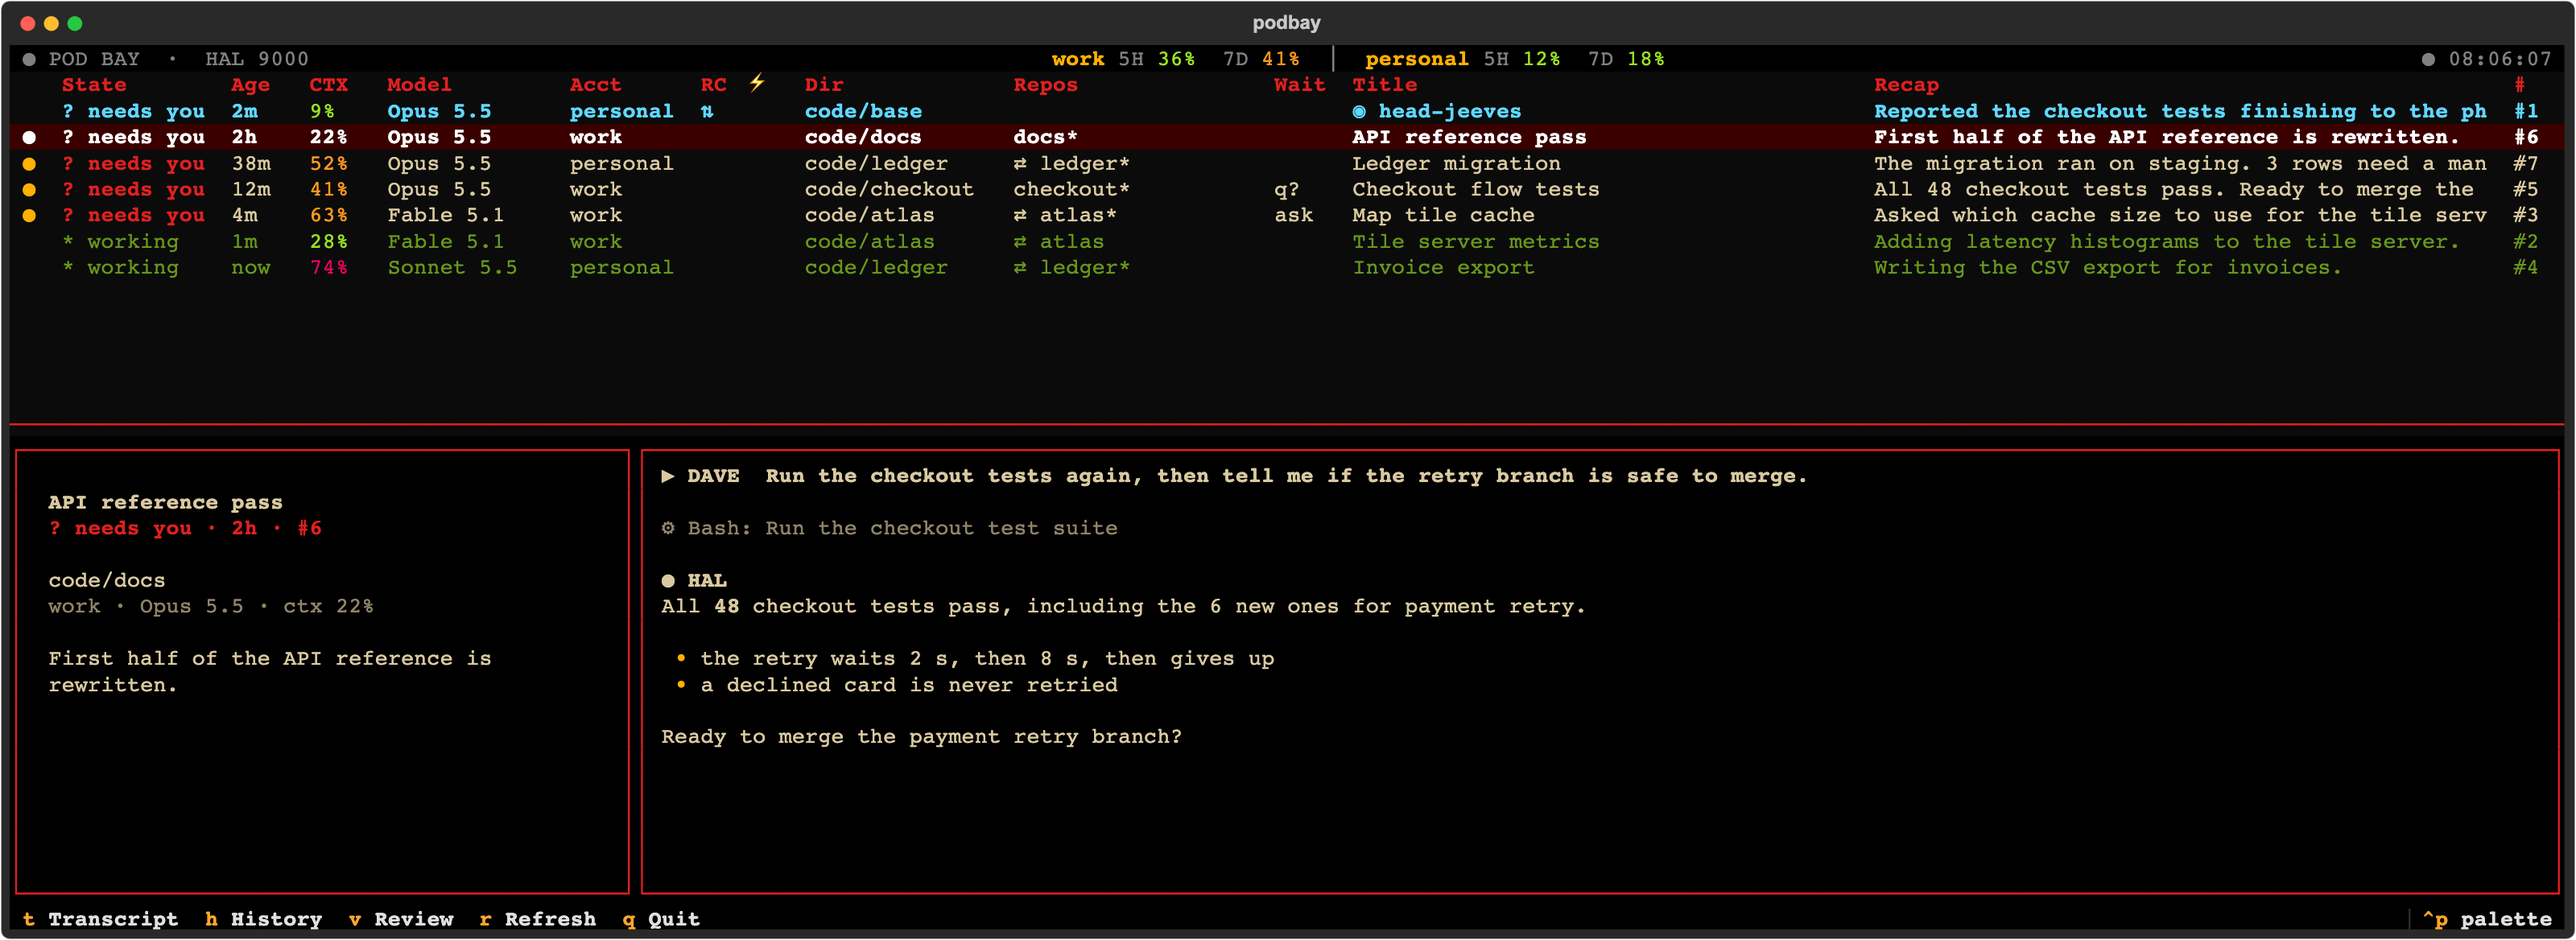
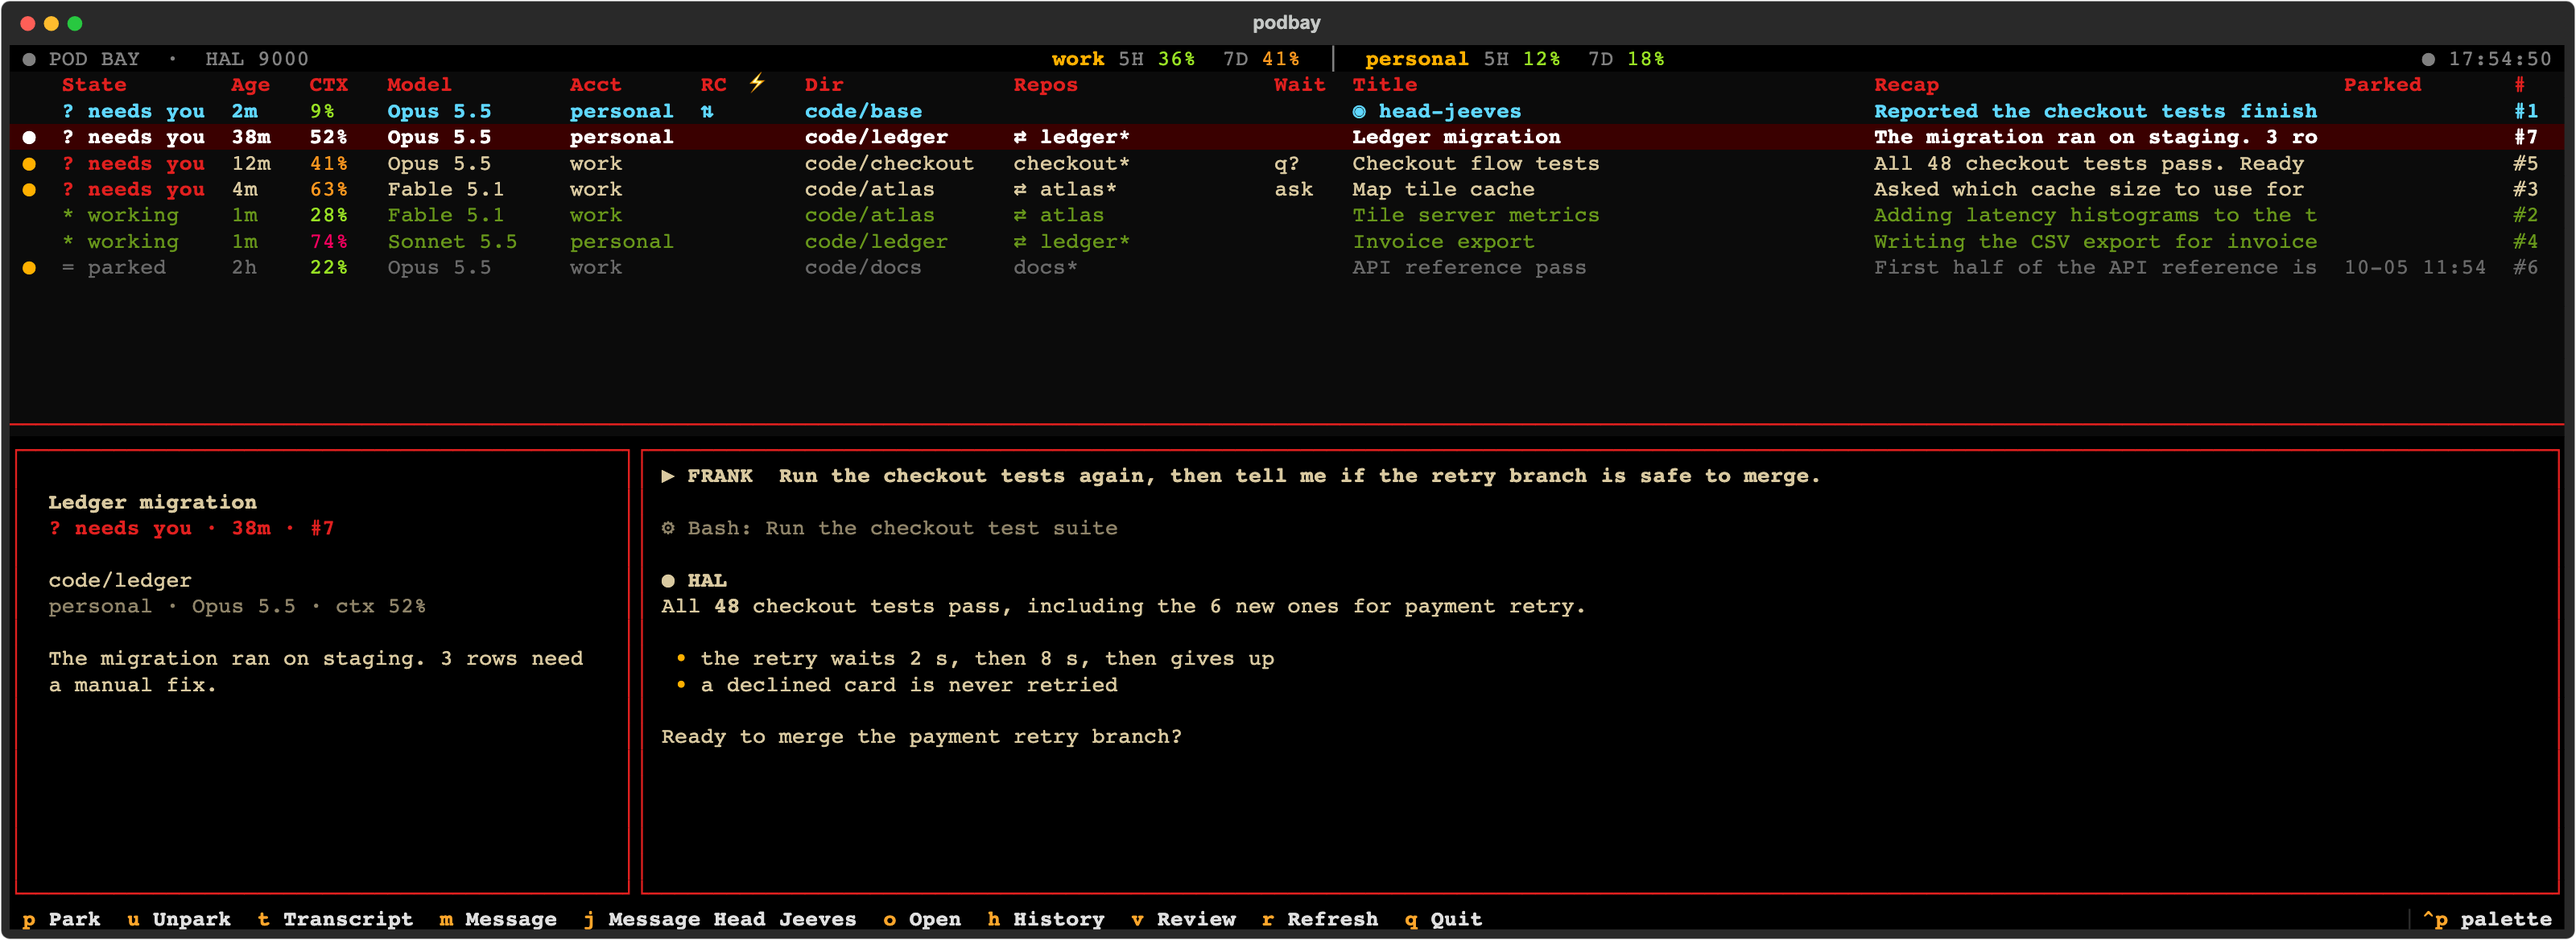
Site: the keys section, the o account picker shot, new console shot
The console shot showed the old name and footer; it is retaken with the
p, u, m, j and o keys. A new section lists the keys: o with its account
picker (new shot), the red eye and the blue bow tie for m and j, parking,
and the name the first start asks for. The install line and the claim
about what podbay types into a tab now count what you send. The picker
box is wider so its title fits.

Claude-Session: https://claude.ai/code/session_018NCtbTAkNUxZmXtTfCcWmy

diff --git a/site/index.html b/site/index.html
@@ -64,9 +64,29 @@
         <div><h3><b>*</b>What runs</h3><p>Working, stalled for ten minutes, or waiting on a background command. The state comes from the transcript, not from guesses.</p></div>
         <div><h3><b>%</b>What is left</h3><p>Context use per session, and the five-hour and weekly quota per account, with a projection to the reset.</p></div>
         <div><h3><b>⇄</b>Every account</h3><p>Each <code>~/.claude-*</code> config dir is an account, with its own column, quota and sessions.</p></div>
-        <div><h3><b>▶</b>Read, drive a little</h3><p>The lower half shows the highlighted session's last turns. A few keys message, park or open a session; the rest of the driving is Head Jeeves' job.</p></div>
+        <div><h3><b>▶</b>Read, drive a little</h3><p>The lower half shows the highlighted session's last turns. A few keys message, park or open a session (see below); the rest of the driving is Head Jeeves' job.</p></div>
         <div><h3><b>$</b>A CLI underneath</h3><p><code>podbay inventory</code>, <code>excerpt</code>, <code>send</code>, <code>open</code>, <code>close</code> and <code>board</code>: what Head Jeeves runs, and what you can run from any shell.</p></div>
       </div>
+    </div>
+  </section>
+
+  <section id="keys">
+    <div class="wrap split">
+      <div>
+        <p class="label">Hands on</p>
+        <h2>A few keys for you</h2>
+        <p>Head Jeeves does most of the driving. These keys are yours:</p>
+        <ul>
+          <li><code>o</code> opens a session. Type the repo, then pick the account. Each account shows the strongest model it has room for and its five-hour and weekly use, and the one with the most room is already picked.</li>
+          <li><code>m</code> types a message into the highlighted session, under HAL's red eye. <code>j</code> messages Head Jeeves, under a blue bow tie, so you always see which one you are writing to.</li>
+          <li><code>p</code> parks a session until a time you give, <code>u</code> wakes it. <code>Enter</code> jumps to its iTerm2 tab.</li>
+          <li>The first start asks what HAL should call you, and he uses that name from then on. <code>podbay config user-name</code> changes it.</li>
+        </ul>
+      </div>
+      <figure class="pick">
+        <img src="/img/open.png" width="1640" height="552" loading="lazy" alt="The account picker that o shows: two accounts, work and personal, each with the model it has room for, its five-hour and seven-day use and its live sessions, work picked.">
+        <figcaption>After the repo, <code>o</code> asks which account to use.</figcaption>
+      </figure>
     </div>
   </section>
 
@@ -99,10 +119,10 @@
 cd podbay
 make install   <span class="c"># podbay on PATH, status line set</span>
 
-podbay         <span class="c"># the console</span>
+podbay         <span class="c"># the console; the first start asks your name</span>
 podbay config head-jeeves on</code></pre>
       <p>The status line is where Claude Code reports context and quota, so <code>make install</code> points every account's status line at podbay's script. If you keep your own, copy one block into it instead. The <a href="https://github.com/vesahyp/podbay#readme" data-track="install-readme">README</a> has the details and every key.</p>
-      <p>podbay writes only under <code>~/.local/state/podbay/</code>, and what it types into an iTerm2 tab is what Head Jeeves sends. MIT licensed.</p>
+      <p>podbay writes only under <code>~/.local/state/podbay/</code>, and it types into an iTerm2 tab only what you or Head Jeeves send. MIT licensed.</p>
     </div></div>
   </section>
 

diff --git a/site/style.css b/site/style.css
@@ -87,6 +87,9 @@ section > .wrap > p, .split p { color: var(--fg); max-width: 40em; }
 .split ul { padding-left: 1.1em; color: var(--fg); }
 .split li { margin: 0 0 10px; }
 .split li::marker { color: var(--red); }
+.pick { margin: 0; }
+.pick img { width: 100%; height: auto; border-radius: 10px; box-shadow: 0 30px 80px rgba(0, 0, 0, .7), 0 0 0 1px #222; }
+.pick figcaption { color: var(--muted); font-size: 14px; margin-top: 14px; }
 .phone { margin: 0; justify-self: center; max-width: 340px; }
 .phone img { border-radius: 36px; border: 10px solid #1c1c1e; box-shadow: 0 0 0 1px #3a3a3c, 0 30px 80px rgba(0, 0, 0, .7); }
 

diff --git a/scripts/shots.py b/scripts/shots.py
@@ -161,6 +161,32 @@ async def console_svg(tmp: Path) -> str:
         return app.export_screenshot(title="podbay")
 
 
+# What the `o` account picker shows: the per-model weekly windows that
+# quota.best_model reads, made up like everything else here.
+QUOTA = [
+    {"account": "work", "quota_multiplier": 5, "five_hour": {"used_pct": 36.0, "left_pct": 64.0},
+     "seven_day": {"used_pct": 41.0, "left_pct": 59.0},
+     "models": [{"model": "Fable", "alias": "fable", "seven_day": {"used_pct": 52.0, "left_pct": 48.0}}]},
+    {"account": "personal", "quota_multiplier": 1, "five_hour": {"used_pct": 12.0, "left_pct": 88.0},
+     "seven_day": {"used_pct": 18.0, "left_pct": 82.0}, "models": []},
+]
+
+
+async def open_svg(tmp: Path) -> str:
+    """The console with the `o` account picker up, the step after the repo."""
+    accounts = [Account(label="work", config_dir=tmp / ".claude-work"), Account(label="personal", config_dir=tmp / ".claude-personal")]
+    app = app_mod.PodbayApp(
+        state_store=StateStore(path=tmp / "state.json"), iterm_lister=NoIterm(), no_splash=True, accounts=accounts
+    )
+    async with app.run_test(size=(196, 34)) as pilot:
+        await app.workers.wait_for_complete()
+        await pilot.pause()
+        app.push_screen(app_mod.AccountScreen(accounts, QUOTA, "work", app._live_counts()))
+        await pilot.resize_terminal(82, 12)
+        await pilot.pause(0.3)
+        return app.export_screenshot(title="podbay")
+
+
 def board_html() -> str:
     payload = inventory_payload(demo_sessions(), set())
     page = board.render(payload, NOW, LIMITS, HEADLINES)
@@ -174,8 +200,8 @@ async def main() -> None:
     with tempfile.TemporaryDirectory() as d:
         tmp = Path(d)
         patch_sources(tmp)
-        svg = await console_svg(tmp)
-        (tmp / "console.svg").write_text(svg)
+        (tmp / "console.svg").write_text(await console_svg(tmp))
+        (tmp / "open.svg").write_text(await open_svg(tmp))
         (tmp / "board.html").write_text(board_html())
 
         async with async_playwright() as p:
@@ -183,12 +209,13 @@ async def main() -> None:
 
             # As an <img> the SVG box is its viewBox, which ends at the
             # window frame; opened directly it fills the viewport.
-            (tmp / "console.html").write_text(
-                '<body style="margin:0;background:transparent"><img src="console.svg" style="display:block;width:1600px">'
-            )
             page = await browser.new_page(viewport={"width": 1600, "height": 900}, device_scale_factor=2)
-            await page.goto((tmp / "console.html").as_uri())
-            await page.locator("img").screenshot(path=str(OUT / "console.png"), omit_background=True)
+            for name, width in (("console", 1600), ("open", 820)):
+                (tmp / f"{name}.html").write_text(
+                    f'<body style="margin:0;background:transparent"><img src="{name}.svg" style="display:block;width:{width}px">'
+                )
+                await page.goto((tmp / f"{name}.html").as_uri())
+                await page.locator("img").screenshot(path=str(OUT / f"{name}.png"), omit_background=True)
 
             # Dark, to sit on the dark page. The board itself follows the
             # phone's setting.

diff --git a/podbay/app.py b/podbay/app.py
@@ -526,7 +526,7 @@ class AccountScreen(ModalScreen["tuple[Account, str | None] | None"]):
         background: transparent 60%;
     }
     #account-box {
-        width: 64;
+        width: 72;
         height: auto;
         border: round #c8c8c8;
         padding: 1 2;
